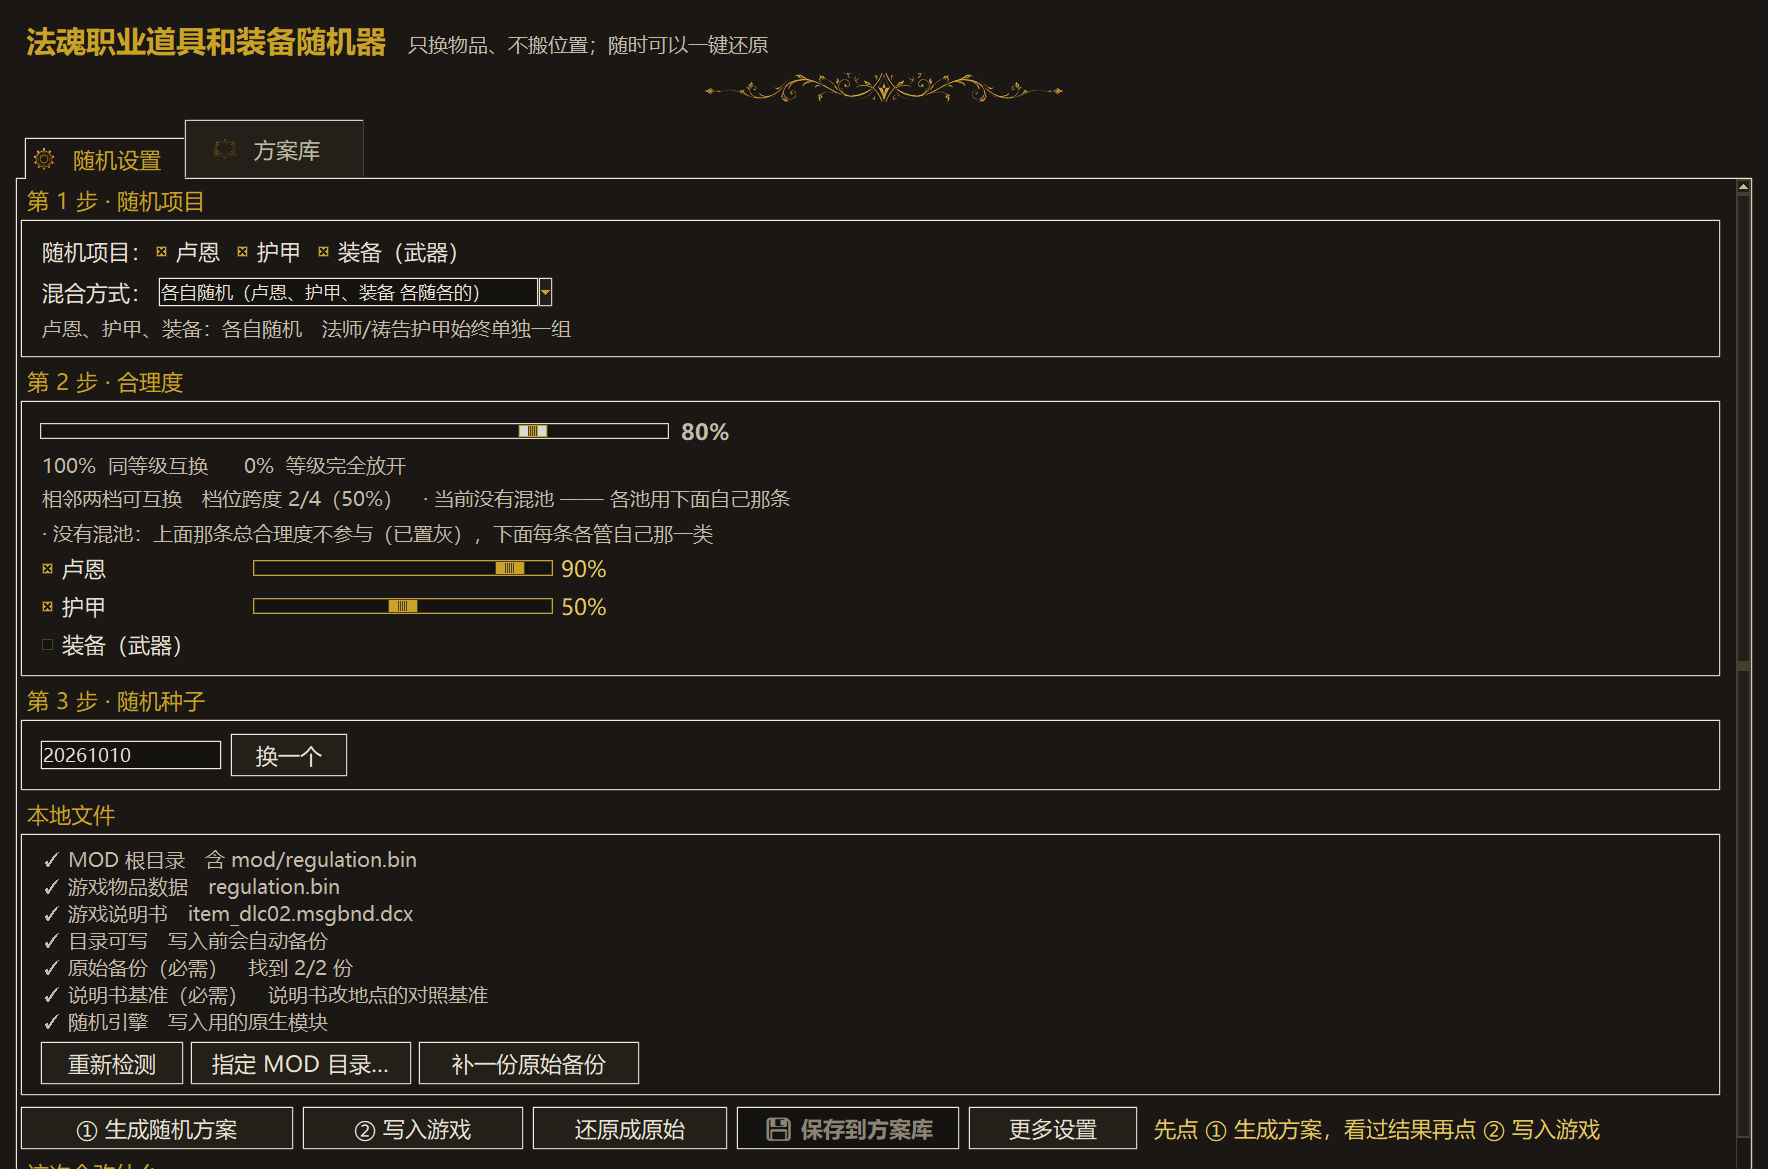
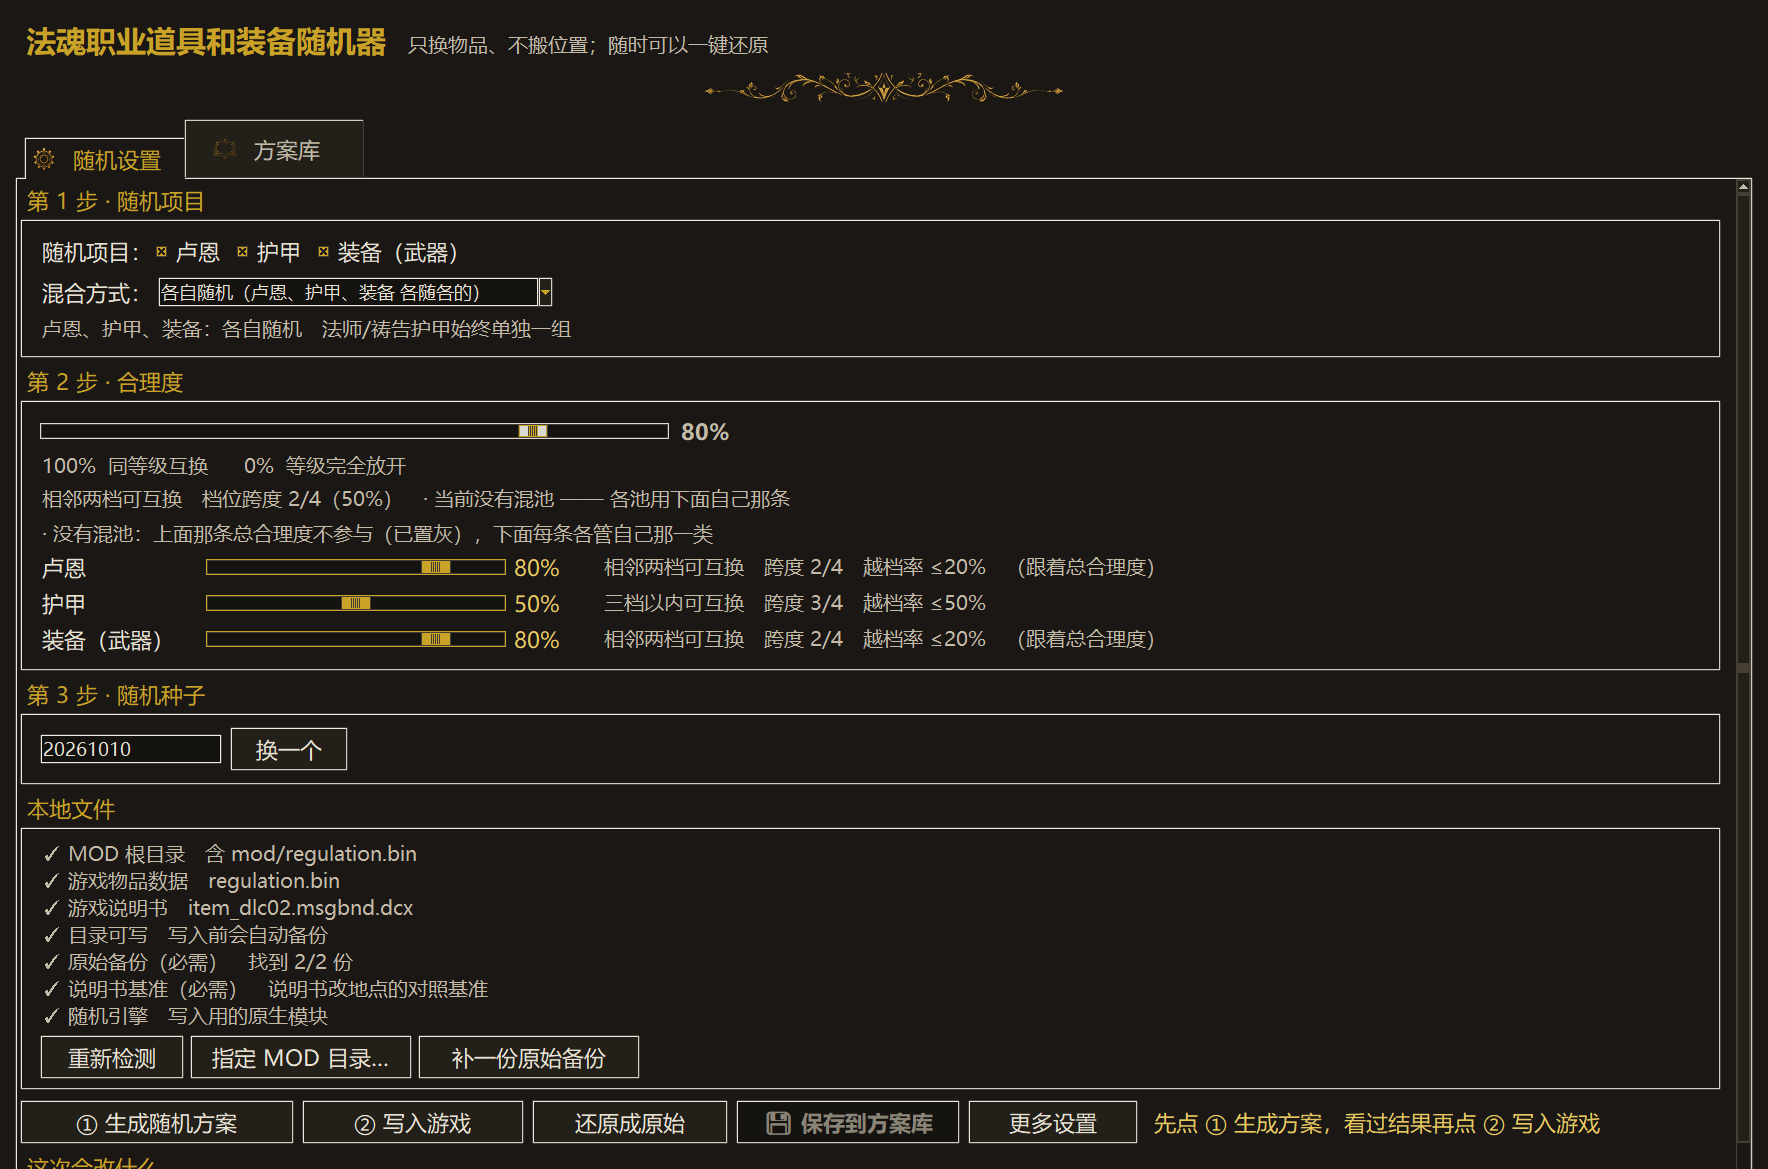
单池设定去掉勾选框 + 每行量化提示（并说明两个比例是怎么生效的）
作者三点：
① 既然行已经按需出现，就不必再让人勾选 —— 去掉每行的勾选框
② 单池合理度要量化"现在会造成什么效果"当调节参考
③ 弄不清商店物品 / 法祷装备两个比例到底怎么生效

界面（randgui.py）：
- _mk_override_row 改成"无勾选框"：行出现即滑块生效；行末尾多一个 note 标签实时写量化效果。
- 合理度那组：没被用户动过（touched=False）的行**跟着总合理度走**（值随之变化、且不进 cfg
  ⇒ 与"不传这个键"逐字节等价）；拖动过的那条开始自己说了算。隐藏的行一律回到"没动过"。
- 量化提示（口径与引擎一致）：合理度行写 `相邻两档可互换　跨度 2/4　越档率 ≤20%`，
  未动过的再缀「（跟着总合理度）」；比例行写 `全改（100%）` / `≈40% 的整套 / 散件参与互换`。
- 全局滑块改动会带着"没动过"的行一起走。

文档：玩家说明补上"两个比例到底怎么生效"（都是抽子集 + 由种子决定：法祷在每个池子里抽
round(池大小×比例) 个单元内部互换；商店先挑出"货架上有它"的物品再抽一部分参与，
未抽中的整件原样 —— 含它在宝箱/掉落里的那一份，保证同一件两处一致）；规格 §2.4.1 同步。

验收：四道闸门全 PASS（uitest 新增 4 条：跟随 / 动过不再跟随 / 不进 cfg / 量化提示）；
负例 30/30；矩阵 90/90。

Changed region(s): [[0.0, 0.4619, 0.9644, 1.0]]

diff --git a/randgui.py b/randgui.py
@@ -584,7 +584,7 @@ class App:
         self.scale_coh = ttk.Scale(r3, from_=0.0, to=1.0, variable=self.coherence, orient="horizontal",
                                    length=px(420),
                                    command=lambda v: (self.lbl_coh.config(text=f"{float(v)*100:.0f}%"),
-                                                      self._coh_hint()))
+                                                      self._refresh_cohs()))
         self.scale_coh.pack(side="left", padx=(0, 10))
         self.lbl_coh.pack(side="left")
         r4 = ttk.Frame(s2); r4.pack(fill="x", pady=(2, 0))
@@ -1645,61 +1645,104 @@ class App:
             messagebox.showerror("失败", str(e))
         self.refresh_env()
 
-    def _mk_override_row(self, parent, store, key, text, frm, to, idx):
-        """建一条"不勾就跟全局走"的覆盖行（改动比例 / 单独设合理度 共用）。
+    def _mk_override_row(self, parent, store, key, text, frm, to, idx, width=12):
+        """建一条"单池设定"的行：**没有勾选框**（2026-10-14 作者要求）——
+        行出现即滑块即生效；没动过就跟全局一致（coh 那组）/ 全改（rate 那组）。
 
-        用 grid（不用 pack）：隐藏/恢复时格子还在，顺序不会乱。"""
+        用 grid（不用 pack）：隐藏/恢复时格子还在，顺序不会乱。
+        """
         row = ttk.Frame(parent)
         row.grid(row=idx, column=0, sticky="w", pady=1)
-        on = tk.BooleanVar(value=False)
         val = tk.DoubleVar(value=to)
         lbl = ttk.Label(row, text=f"{float(to)*100:.0f}%", width=6)
         scale = ttk.Scale(row, from_=frm, to=to, variable=val, orient="horizontal",
                           length=px(200),
                           command=lambda v, k=key, st=store: self._ov_moved(st, k, v))
-        ttk.Checkbutton(row, text=text, variable=on, width=14,
-                        command=lambda k=key, st=store: self._ov_toggle(st, k)).pack(side="left")
+        ttk.Label(row, text=text, width=width).pack(side="left")
         scale.pack(side="left", padx=6)
         lbl.pack(side="left")
-        store[key] = {"on": on, "val": val, "lbl": lbl, "scale": scale, "row": row}
+        note = ttk.Label(row, text="", style="Hint.TLabel")     # 量化提示（拖的时候实时更新）
+        note.pack(side="left", padx=(8, 0))
+        store[key] = {"val": val, "lbl": lbl, "scale": scale, "note": note, "row": row,
+                      "touched": False}
         return store[key]
 
     def _ov_moved(self, store, key, v):
         r = store.get(key)
-        if r:
-            r["lbl"].config(text=f"{float(v)*100:.0f}%")
+        if not r:
+            return
+        r["touched"] = True                    # 用户动过 ⇒ 这一条开始"自己说了算"
+        r["lbl"].config(text=f"{float(v)*100:.0f}%")
+        self._ov_note(store, key)
+
+    def _ov_note(self, store, key, *_a):
+        """每行自己那句"调节参考"（量化它现在会造成什么效果）"""
+        if store is getattr(self, "coh_rows", None):
+            return self._coh_note(key)
+        if store is getattr(self, "rate_rows", None):
+            return self._rate_note(key)
+
+    def _coh_note(self, key, *_a):
+        """单池合理度的量化提示：口径与引擎/全局那条完全一致（统一 4 档）"""
+        r = (getattr(self, "coh_rows", None) or {}).get(key)
+        if not r:
+            return
+        c = float(r["val"].get())
+        steps = max(0, min(3, int(round((1 - c) * 3))))
+        span = steps + 1
+        lvl = {1: "只能同档互换", 2: "相邻两档可互换",
+               3: "三档以内可互换", 4: "等级完全放开"}[span]
+        try:
+            r["note"].config(text=f"{lvl}　跨度 {span}/4　越档率 ≤{int(round((1 - c) * 100))}%"
+                                  + ("" if r["touched"] else "　（跟着总合理度）"))
+        except Exception:
+            pass
+
+    def _rate_note(self, key, *_a):
+        r = (getattr(self, "rate_rows", None) or {}).get(key)
+        if not r:
+            return
+        v = float(r["val"].get())
+        what = "整套 / 散件" if key == "caster" else "有商店在卖的物品"
+        try:
+            r["note"].config(text=("全改（100%）" if v >= 0.999
+                                   else f"≈{int(round(v * 100))}% 的{what}参与互换"))
+        except Exception:
+            pass
 
     def _ov_toggle(self, store, key, *_a):
-        """勾了才把滑块摆出来 —— 不勾就是"跟全局走"，看不见滑块最不容易误会
-        （clam 主题下 disabled 的 Scale 和正常的长得一样，只靠灰字分不清）"""
+        """行可见时滑块一律摆出来（没有勾选框了，见 _mk_override_row）"""
         r = store.get(key)
         if not r:
             return
         try:
-            if r["on"].get():
-                r["lbl"].config(style="Status.TLabel")
-                r["lbl"].config(text=f"{float(r['val'].get())*100:.0f}%")
+            r["lbl"].config(style="Status.TLabel")
+            r["lbl"].config(text=f"{float(r['val'].get())*100:.0f}%")
+            if not r["scale"].winfo_manager():
                 r["scale"].pack(side="left", padx=6)
+            if not r["lbl"].winfo_manager():
                 r["lbl"].pack(side="left")
-            else:
-                r["scale"].pack_forget()
-                r["lbl"].pack_forget()
         except Exception:
             pass
 
     def _ov_set(self, store, key, on, val=None):
-        """一次性设成指定状态（load_cfg / 方案库载入用）"""
+        """一次性设成指定状态（load_cfg / 方案库载入用）；on=True ⇒ 视为"用户设过"（touched）"""
         r = store.get(key)
         if not r:
             return
-        r["on"].set(bool(on))
+        r["touched"] = bool(on)
         if val is not None:
             r["val"].set(max(0.0, min(1.0, float(val))))
-            r["lbl"].config(text=f"{float(r['val'].get())*100:.0f}%")
+        r["lbl"].config(text=f"{float(r['val'].get())*100:.0f}%")
         self._ov_toggle(store, key)
+        self._ov_note(store, key)
 
-    def _ov_refresh(self, store, applicable):
-        """按当前配置动态增减这些行；隐藏的一定清掉勾选（别让看不见的值还在生效）"""
+    def _ov_refresh(self, store, applicable, default=None):
+        """按当前配置动态增减这些行。
+
+        · `default` 给了 ⇒ 没被用户动过（touched=False）的行**跟着它走**（合理度那组传全局值）
+        · 隐藏的行一定回到"没动过" ⇒ 它的值绝不会偷偷生效
+        """
         for key, r in (store or {}).items():
             row = r.get("row")
             if row is None:
@@ -1707,17 +1750,20 @@ class App:
             if applicable.get(key):
                 if not row.winfo_manager():
                     row.grid()
+                if default is not None and not r["touched"]:
+                    r["val"].set(float(default))
+                    r["lbl"].config(text=f"{float(default)*100:.0f}%")
             else:
                 if row.winfo_manager():
                     row.grid_remove()
-                if r["on"].get():
-                    r["on"].set(False)
+                r["touched"] = False
             self._ov_toggle(store, key)
+            self._ov_note(store, key)
 
     def _ov_collect(self, store, applicable):
         out = {}
         for key, r in (store or {}).items():
-            if applicable.get(key) and r["on"].get():
+            if applicable.get(key) and r.get("touched"):
                 out[key] = round(float(r["val"].get()), 3)
         return out
 
@@ -1777,6 +1823,7 @@ class App:
 
         · 有混池 → 总合理度可用（它管混池），下面只摆"自己还成池"的那几类
         · 没有混池（各自随机）→ 总合理度**置灰**（那时它不参与），下面每条各管自己那类
+        · 没被用户动过的那几条**跟着总合理度走**（所以不动它就等于"跟全局一致"）
         """
         has_mix = bool(self._join_groups())
         try:
@@ -1788,10 +1835,11 @@ class App:
             pass
         if getattr(self, "lbl_cohrows", None) is not None:
             self.lbl_cohrows.config(
-                text=("· 单独的池子：进了混池的类别由上面总合理度统管"
+                text=("· 单独的池子：进了混池的类别由上面总合理度统管；下面没动过的那几条也跟着它"
                       if has_mix else
                       "· 没有混池：上面那条总合理度不参与（已置灰），下面每条各管自己那一类"))
-        self._ov_refresh(getattr(self, "coh_rows", None), self._coh_applicable())
+        self._ov_refresh(getattr(self, "coh_rows", None), self._coh_applicable(),
+                         default=float(self.coherence.get()))
         self._coh_hint()
 
     def _coh_set(self, key, on, val=None):
@@ -2479,13 +2527,15 @@ def _uitest_actions(app, root, planlib, a, b, tmp, checks, ck):
     app._rate_set("shop", False, None)
     app._refresh_rates()
     root.update()
-    ck("改动比例：没勾的那条滑块收起来（不勾 = 这一类全改，一眼能看出）",
-       not app.rate_rows["shop"]["scale"].winfo_manager()
-       and bool(app.rate_rows["caster"]["scale"].winfo_manager()),
-       f"法祷路={app.rate_rows['caster']['scale'].winfo_manager()!r} "
-       f"商店路={app.rate_rows['shop']['scale'].winfo_manager()!r}")
-    ck("改动比例：没勾的那条不进 cfg",
+    ck("改动比例：行出现时滑块就在（没有勾选框）",
+       bool(app.rate_rows["caster"]["scale"].winfo_manager())
+       and "on" not in app.rate_rows["caster"],
+       f"滑块={app.rate_rows['caster']['scale'].winfo_manager()!r}")
+    ck("改动比例：没动过（还是 100%）的那条不进 cfg（= 这一类全改）",
        app._collect().get("rate_shop") is None, f"shop={app._collect().get('rate_shop')}")
+    ck("改动比例：量化提示跟着值走（40% ⇒ 写着 ≈40% 参与互换）",
+       "≈40%" in app.rate_rows["caster"]["note"].cget("text"),
+       f"提示={app.rate_rows['caster']['note'].cget('text')!r}")
     # 旧方案（cfg 里那几项都没有）载回来 → 必须回到"全改"，不能留着上一次的勾
     app._lib_apply_cfg()
     root.update()
@@ -2510,12 +2560,11 @@ def _uitest_actions(app, root, planlib, a, b, tmp, checks, ck):
        _c3.get("rate_sets") is None and _c3.get("rate_caster") is None,
        f"sets={_c3.get('rate_sets')} caster={_c3.get('rate_caster')}")
     app.doms["armor"].set(True); app._toggle_dom("armor"); root.update()
-    ck("改动比例：勾回来那条又出现（值记着，勾选框是干净的）",
+    ck("改动比例：收起来又出现时值记着（0.4）",
        bool(app.rate_rows["caster"]["row"].winfo_manager())
-       and round(app.rate_rows["caster"]["val"].get(), 2) == 0.4
-       and not app.rate_rows["caster"]["on"].get(),
+       and round(app.rate_rows["caster"]["val"].get(), 2) == 0.4,
        f"可见={bool(app.rate_rows['caster']['row'].winfo_manager())} "
-       f"值={round(app.rate_rows['caster']['val'].get(), 2)} 勾={app.rate_rows['caster']['on'].get()}")
+       f"值={round(app.rate_rows['caster']['val'].get(), 2)}")
     app.shops.set(False); app._refresh_rates(); root.update()
     ck("改动比例：关掉商店 ⇒ 商店物品那条收起来（那时商店根本不参与）",
        not app.rate_rows["shop"]["row"].winfo_manager(),
@@ -2559,8 +2608,29 @@ def _uitest_actions(app, root, planlib, a, b, tmp, checks, ck):
     ck("单池合理度：界面跟着变（三条都在）",
        all(app.coh_rows[k]["row"].winfo_manager() for k in ("rune", "armor", "weapon")),
        f"可见={[k for k, r in app.coh_rows.items() if r['row'].winfo_manager()]}")
+    # 没动过 ⇒ 跟着总合理度走，且**不进 cfg**（不动它就等于"跟全局一致"）
+    app.coherence.set(0.55); app._refresh_cohs(); root.update()
+    ck("单池合理度：没动过的行**跟着总合理度**（80%→55%）",
+       round(app.coh_rows["armor"]["val"].get(), 2) == 0.55
+       and "跟着总合理度" in app.coh_rows["armor"]["note"].cget("text"),
+       f"护甲条={round(app.coh_rows['armor']['val'].get(), 2)}｜提示={app.coh_rows['armor']['note'].cget('text')!r}")
+    ck("单池合理度：没动过 ⇒ 不进 cfg",
+       not app._collect().get("coh_domain"), f"coh_domain={app._collect().get('coh_domain')}")
+    app._coh_set("armor", True, 0.2)          # 模拟用户拖动
+    app.coherence.set(0.9); app._refresh_cohs(); root.update()
+    ck("单池合理度：动过之后不再跟随（总 90% 也保持 20%），且进 cfg",
+       round(app.coh_rows["armor"]["val"].get(), 2) == 0.2
+       and (app._collect().get("coh_domain") or {}).get("armor") == 0.2,
+       f"护甲条={round(app.coh_rows['armor']['val'].get(), 2)}｜"
+       f"cfg={app._collect().get('coh_domain')}")
+    ck("单池合理度：量化提示写清跨度 / 越档率",
+       "跨度" in app.coh_rows["armor"]["note"].cget("text")
+       and "越档率" in app.coh_rows["armor"]["note"].cget("text"),
+       f"提示={app.coh_rows['armor']['note'].cget('text')!r}")
+    app.coherence.set(0.8); app._refresh_cohs(); root.update()
+
     app._coh_set("rune", True, 0.35); root.update()
-    ck("单池合理度：勾了就进 cfg（卢恩 35%）",
+    ck("单池合理度：设了就进 cfg（卢恩 35%）",
        (app._collect().get("coh_domain") or {}).get("rune") == 0.35,
        f"coh_domain={app._collect().get('coh_domain')}")
     ck("单池合理度：cfg 里**没有** coh_mixed 这个键（混池用总合理度）",

diff --git a/docs/使用说明（给玩家）.md b/docs/使用说明（给玩家）.md
@@ -70,6 +70,7 @@
 
 #### 3b）单池合理度（跟着混合方式自动出现）
 > 就在**同一个「第 2 步 · 合理度」**里 ✓ —— 没有额外开关，该出现的自己会出现 ✓
+> **没有勾选框**：行一出现滑块就在生效 ✓；**没动过的那些跟着总合理度走**（那行末尾会写「跟着总合理度」）✓
 
 规则就三句，跟着「混合方式」和"勾了哪些随机项目"走：
 - **有混池时**：上面那条**总合理度管混池** ✓，下面只摆"自己还成池"的那些类别 ✓。
@@ -78,8 +79,11 @@
 - **两两混**：总合理度管那个混池 ✓，只有**落单那一类**有自己的那条 ✓。
 - 没勾的随机项目不出现 ✓；**法祷护甲永远没有这一条** ✓（它不分等级，只在法祷内部互换）✓。
 
+**每行都写着"这条现在会造成什么"** ✓（拖的时候实时变）：
+> `相邻两档可互换　跨度 2/4　越档率 ≤20%` —— 跨度越大越容易跨档，越档率就是"能跨档的比例上限" ✓。
+
 ### 4）改动比例（勾了才展开）
-> 在「更多设置」里 ✓ —— 默认**收起**；勾上「改动比例」才展开 ✓；**不勾某条 = 这一类全改** ✓
+> 在「更多设置」里 ✓ —— **没有勾选框**：行出现时滑块就在生效，**没动过＝这一类全改（100%）** ✓
 
 只有两条，都是"抽一部分出来改"：
 - **法祷职业护甲** —— **整套与散件一起**按这个比例改 ✓
@@ -87,11 +91,16 @@
 - **商店物品** —— **有商店在卖的那批物品**里，多少参与互换 ✓（50% ≈ 一半货架会换）。
   它是按**物品**抽的 ✓：同一件东西既在货架上、也在宝箱/掉落里时，两处**一起换、一起不动** ✓
   （不这么做就会出现"货架换了、宝箱还是原来那件"）。
-- 没勾的条目**滑块会收起来** ✓（收起来 = 这一类全改，不会偷偷用上一次的值 ✓）。
+- 每行末尾写着当前值的效果 ✓（`全改（100%）` / `≈40% 的整套 / 散件参与互换`）。
 - 取消「护甲」→ 法祷那条收起来 ✓；关掉「商店里的职业装备也一起换」→ 商店那条收起来 ✓。
 
 > 例：法祷职业护甲 40% + 商店物品 100% → 法祷换四成左右，卢恩/武器照常全换，
 > 商店卖的东西跟着它自己那件物品一起变 ✓。
+>
+> **它到底怎么生效的**（两个比例都是"抽子集"，都用种子决定，所以同种子可复现）：
+> · 法祷护甲：在**每类池子里**抽 `round(池大小 × 比例)` 个单元，只在这个子集**内部**互换，没抽中的原样 ✓
+> · 商店物品：先挑出"货架上有它"的物品，按比例抽其中一部分**参与互换**，其余的**整件**保持原样
+>   （含它在宝箱/掉落里的那一份 —— 同一件东西必须两处一致）✓
 
 ### 5）法祷护甲整套一起换
 > 在「更多设置」里 ✓

diff --git a/docs/随机化算法规格.md b/docs/随机化算法规格.md
@@ -107,7 +107,9 @@ span(coh) = 1 + round((1 - coh) * 3)          # ∈ {1,2,3,4}
 
 - 「装备（武器）」与卢恩 / 护甲**同规则**：进了混池就没有自己那条；不进混池时它管的是
   「高加成地区武器 ↔ 低加成地区武器」的互换概率（作者原话）。
-- 收起来的那条**一定**回到未勾选，于是它的值不会进 cfg。
+- 界面**没有勾选框**（2026-10-14 作者要求）：行出现即生效；**没动过的行跟着总合理度走**
+  （值随总合理度变，且不进 cfg —— 于是"不动它"与"不传这个键"逐字节等价）；
+  拖动过的那条才开始自己说了算。每行末尾实时写着量化效果（`跨度 x/4　越档率 ≤y%`）。
 - 缺省与显式填成全局值**逐字节一致**（负例 N11d 守着）—— 老配置、老计划不受影响。
 
 ### 2.5 合理度控制的另外两项（武器掺入比例 + 越档率）
